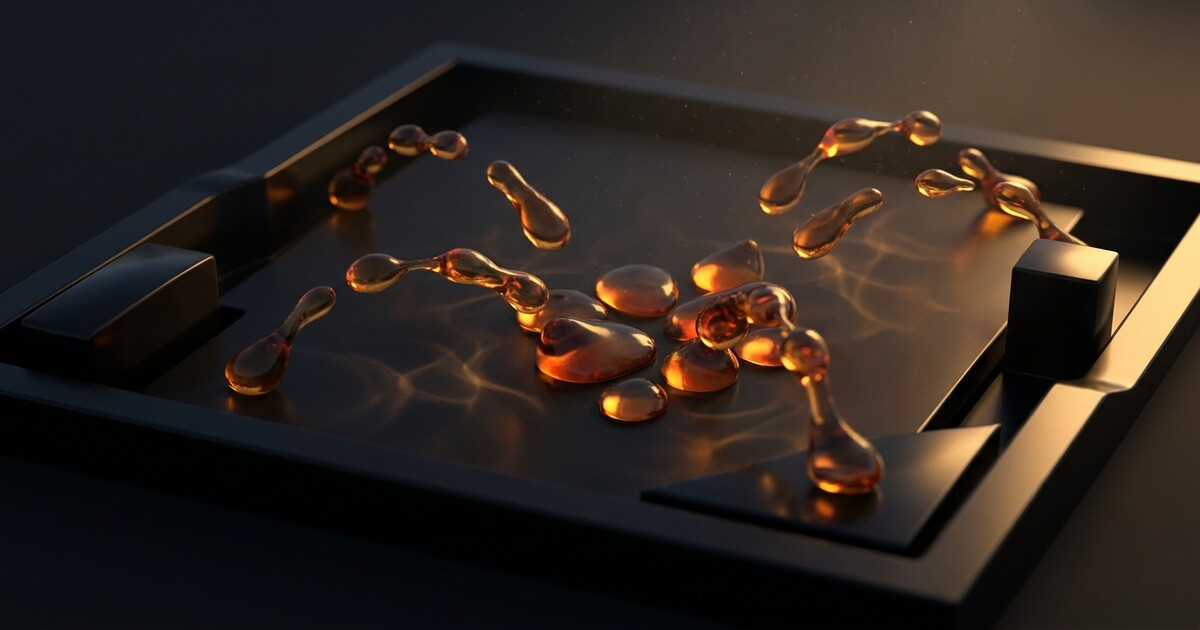
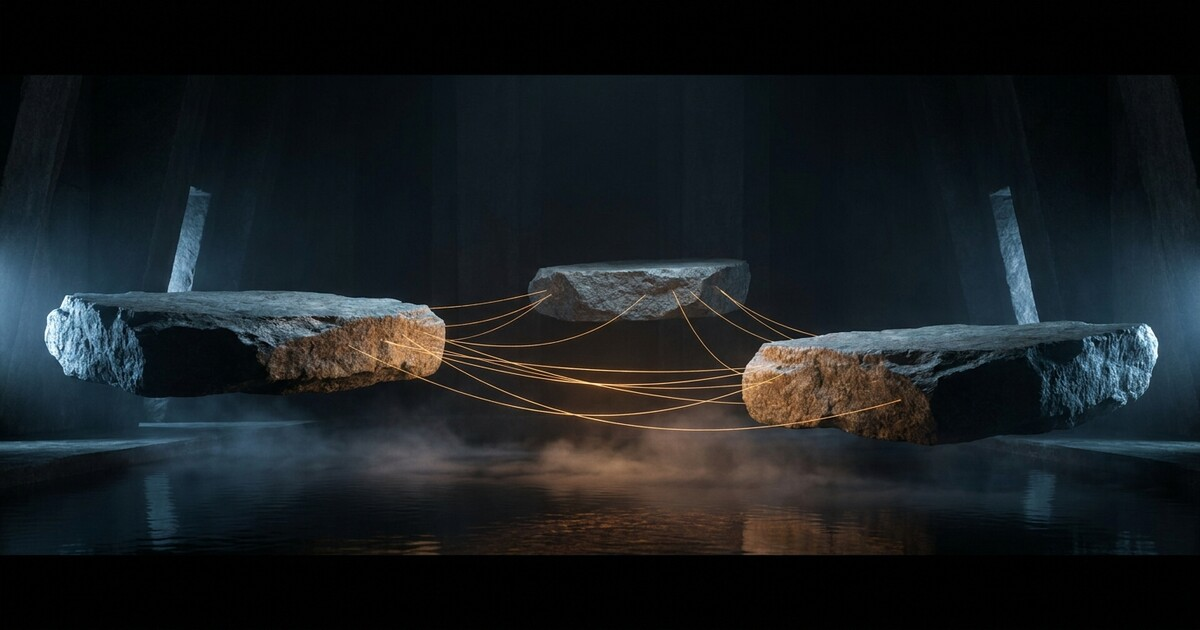
fix(content): replace 3 covers with topic-anchored images (FEAT-102)
The covers for the last 3 posts were interchangeable abstract molten-metal
blobs that didn't evoke their topics. Regenerated with the new topic-anchored
cover prompt (openclaw FEAT-102) — same models, same articles:

- federated-mcp: separate stone platforms linked with no central hub
- diffusion-llms: many spheres resolving from fog at once (parallel, not serial)
- agent-identity: a vault of keys with one governed under a hard light

cover.alt updated to match each new image. Captions unchanged (same model
family). Binaries are 1200x630, OCR-gate clean.

Claude-Session: https://claude.ai/code/session_016AV1VdGpvq1UsRBVDDoD27

diff --git a/content/posts/2026-08-14-federated-mcp-distributed-tool-access.md b/content/posts/2026-08-14-federated-mcp-distributed-tool-access.md
@@ -9,7 +9,7 @@ description: "Federated MCP lets agents discover and invoke tools across organiz
 summary: "The hard part of federated MCP isn't plumbing between servers; it's deciding who can invoke what across a boundary no single party controls."
 cover:
   image: "/images/covers/2026-08-14-federated-mcp-distributed-tool-access/cover.jpg"
-  alt: "Federated MCP: Distributed Tool Access Without a Central Server — abstract network topology with no central hub, dark background, no text or logos"
+  alt: "Federated MCP as three separate stone platforms linked by light with no central hub - distributed tool access without a server"
   caption: "Image generated with gemini-3-pro-image (Agents' Codex AI illustration)"
   relative: false
   hidden: false

diff --git a/content/posts/2026-08-21-diffusion-language-models-agent-inference.md b/content/posts/2026-08-21-diffusion-language-models-agent-inference.md
@@ -9,7 +9,7 @@ description: "Diffusion LLMs generate whole sequences in parallel, hitting 1,000
 summary: "A production engineer's guide to when parallel token generation beats autoregressive decoding for latency-sensitive agent workloads."
 cover:
   image: "/images/covers/2026-08-21-diffusion-language-models-agent-inference/cover.jpg"
-  alt: "Diffusion LLM parallel generation visualized as molten silver fluid bursting outward in a radial bloom, representing simultaneous token unmasking"
+  alt: "Diffusion LLM inference as hundreds of spheres resolving from fog all at once - parallel generation, not sequential"
   caption: "Image generated with gpt-5.4-image-2 (Agents' Codex AI illustration)"
   relative: false
   hidden: false

diff --git a/content/posts/2026-08-28-agent-identities-first-class-principals-nhi-governance.md b/content/posts/2026-08-28-agent-identities-first-class-principals-nhi-governance.md
@@ -9,7 +9,7 @@ description: "Agent identity governance is failing: MCP config files exposed 24,
 summary: "Stop handing agents long-lived secrets; govern credential use the moment each agent acts, not at rest."
 cover:
   image: "/images/covers/2026-08-28-agent-identities-first-class-principals-nhi-governance/cover.jpg"
-  alt: "Agent identity governance: molten silver orbs on obsidian, evaporating into violet steam under warm side-lighting"
+  alt: "Agent identity governance as a vault of brass keys with one singled out under hard light - runtime credential control"
   caption: "Image generated with gemini-3-pro-image (Agents' Codex AI illustration)"
   relative: false
   hidden: false
